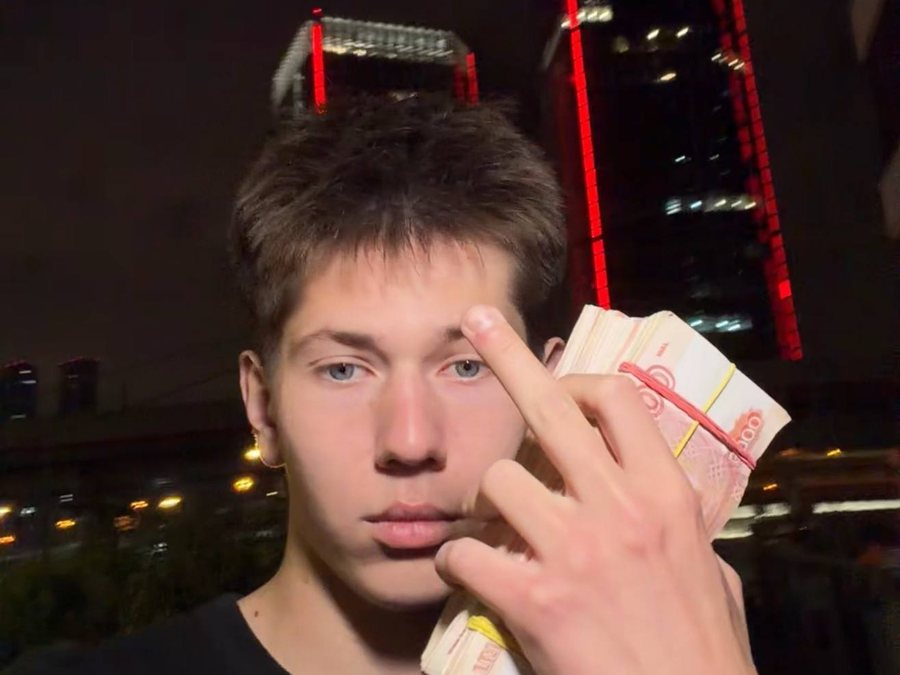
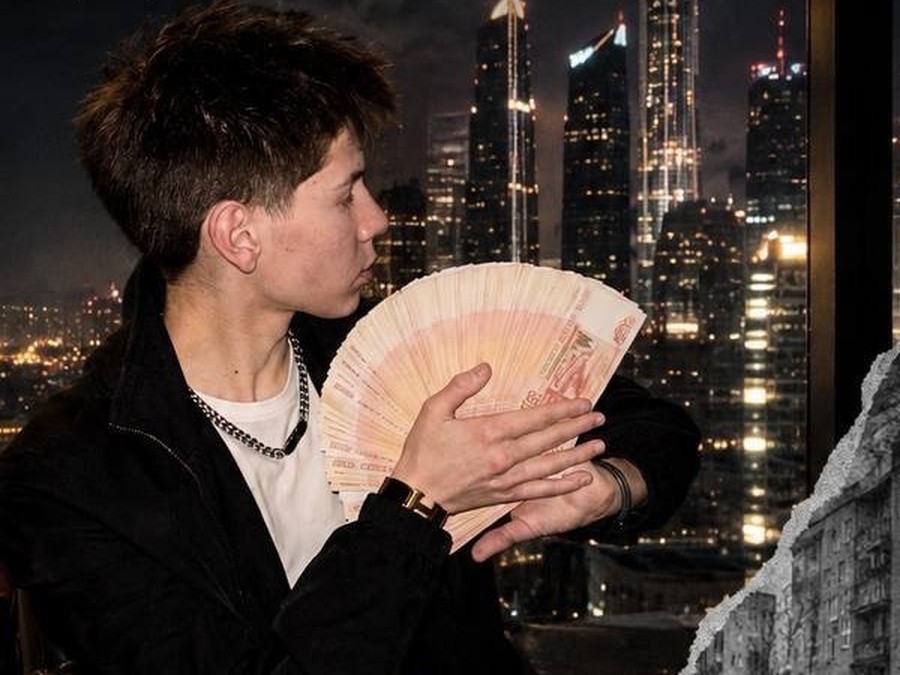
SABIZ: новое фото консультации, правки оффера
Claude-Session: https://claude.ai/code/session_01BGvRGFu2Q9TojCPjU6GCLq

diff --git a/sabiz/index.html b/sabiz/index.html
@@ -388,11 +388,11 @@ body{background:#EEF3FB}
     <section class="card" id="consult">
       <div class="c-photo"><img src="media/consult.jpg" alt="Сабиз" width="900" height="675" loading="lazy" decoding="async"><b>Сабиз</b></div>
       <span class="label">Бесплатная консультация · 30 минут</span>
-      <h2>Составим твой личный план входа в продюсирование</h2>
+      <h2>Составим твой индивидуальный план входа в продюсирование</h2>
       <ul class="gets">
-        <li>Разберём, с чего начать именно тебе</li>
-        <li>Посчитаем, как выйти на твою цель по доходу за 3 месяца</li>
-        <li>Дам связку, как заработать первые деньги уже в течение недели</li>
+        <li>Расскажем весь фундамент и ответим на твои вопросы</li>
+        <li>Посчитаем, как выйти на твою цель по доходу</li>
+        <li>Дам связку, как заработать первые деньги уже в течение месяца</li>
       </ul>
       <div class="goal">
         <span class="label">Твоя цель на 3 месяца</span>
